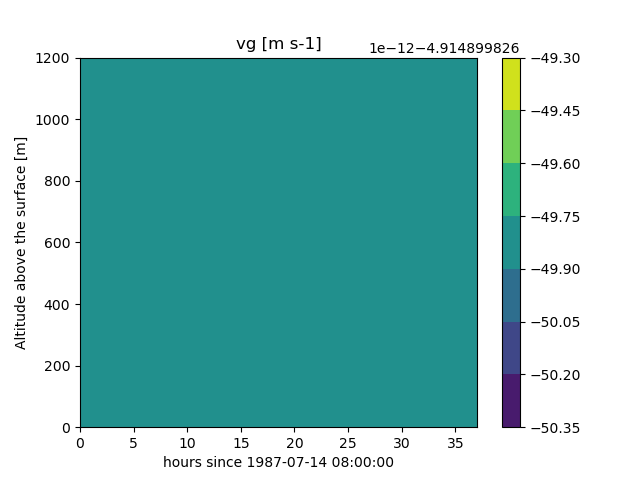
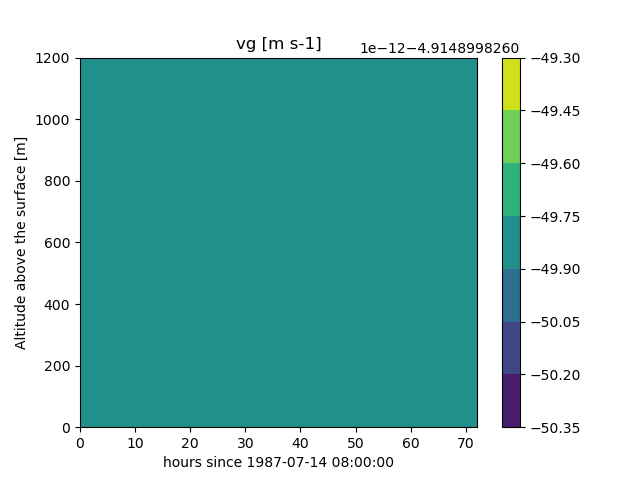
FIRE 3 jours

diff --git a/FIRE/MESONH/driver_DEF.py b/FIRE/MESONH/driver_DEF.py
@@ -5,6 +5,9 @@ Created on 21 Septembre 2021
 
 @author: Romain Roehrig
 
+Modifs :
+  01/03/2025 - Najda Villefranque - 3 days instead of 37h
+
 """
 
 ## EUROCS FIRE straotumulus case original case definition
@@ -31,7 +34,7 @@ case = Case('FIRE/MESONH',
         lat=33.3,
         lon=-119.5,
         startDate="19870714080000",
-        endDate="19870715210000",
+        endDate="19870717080000",
         surfaceType="ocean",
         zorog=0.)
 
